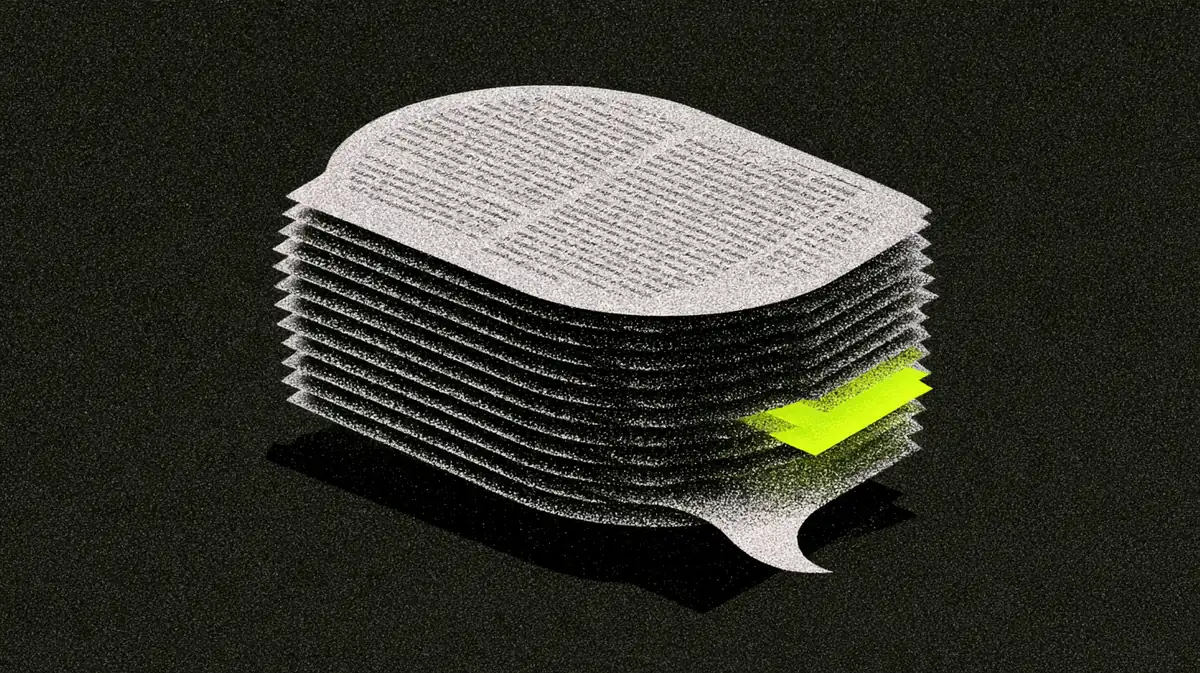
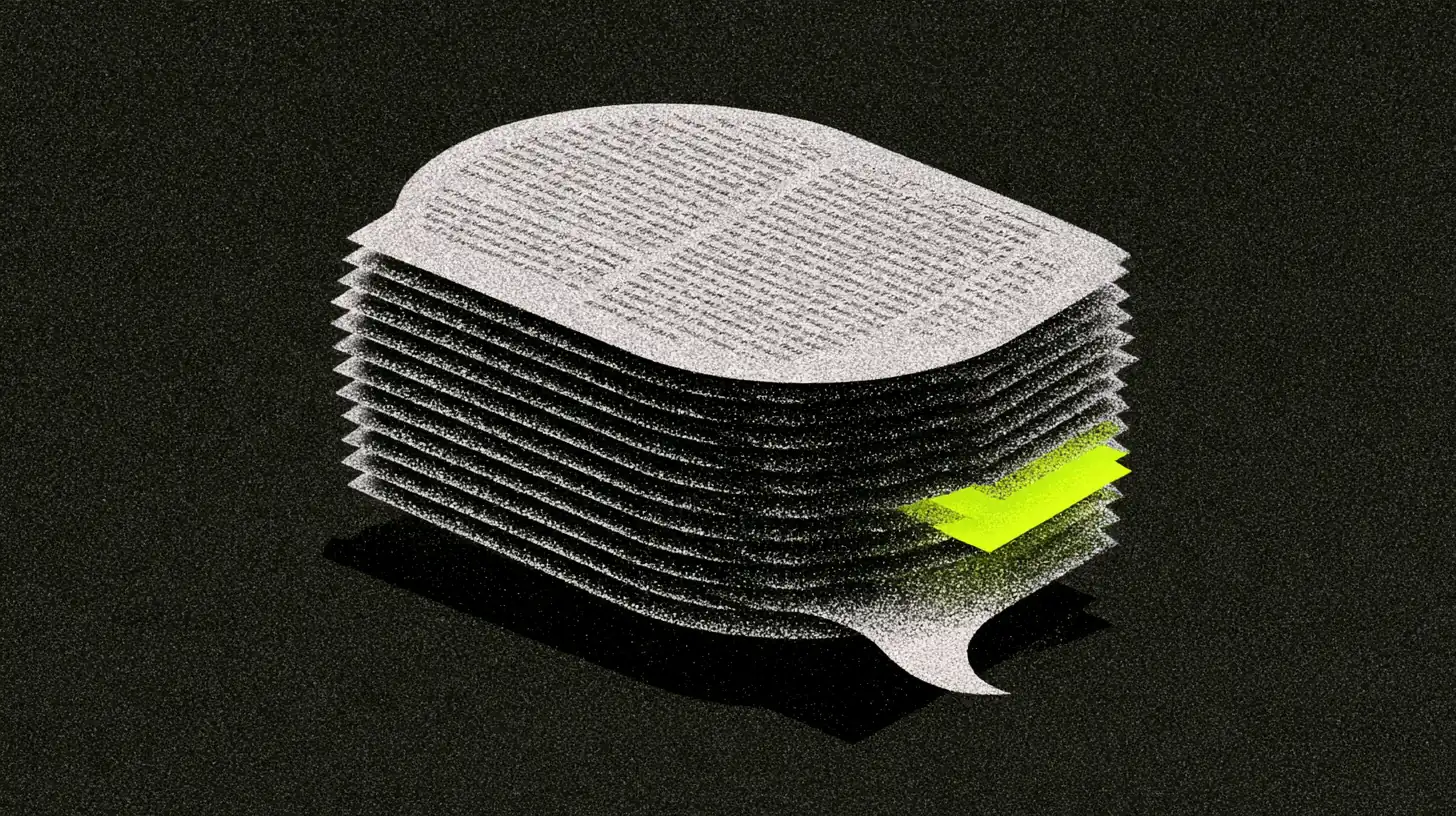
feat: full-bleed parallax illustration bands, remove founder section, fix tools mobile nav

Changed region(s): [[0.74, 0.6241, 0.7708, 0.6553], [0.6783, 0.5617, 0.7092, 0.5929], [0.5858, 0.7489, 0.6167, 0.7801]]

diff --git a/tools.html b/tools.html
@@ -7,7 +7,7 @@
 <meta name="viewport" content="width=device-width, initial-scale=1.0">
 <title>Free AI Tools for Business Teams | Alvento</title>
 <link rel="canonical" href="https://alvento.uk/tools/">
-<meta name="description" content="Free browser-based tools for teams using AI. PDF to Markdown, SOP to Checklist, Compliance Checklist, Contract Clause Extractor. Built by Alvento.">
+<meta name="description" content="Free browser-based tools for regulated teams: PDF to Markdown, SOP to Checklist, MDR device class checker, MDR technical file index, PSUR outline, UDI decoder, PSBAR accessibility statement and CPD tracker. Built by Alvento.">
 <link href="https://fonts.googleapis.com/css2?family=Instrument+Serif:ital@0;1&family=DM+Sans:ital,wght@0,400;0,500;0,600;0,700;1,400&family=JetBrains+Mono:wght@400;500&display=swap" rel="stylesheet">
 <style>
 *, *::before, *::after { margin: 0; padding: 0; box-sizing: border-box; }
@@ -108,6 +108,8 @@ nav .container {
 }
 
 .nav-links .btn-nav:hover { background: var(--accent-hover); }
+
+.nav-toggle { display: none; background: none; border: none; color: var(--text); font-size: 1.5rem; cursor: pointer; }
 
 /* ---- SECTION LABEL ---- */
 .section-label {
@@ -310,6 +312,8 @@ footer p {
 /* ---- RESPONSIVE ---- */
 @media (max-width: 768px) {
   .nav-links { display: none; }
+  .nav-links.open { display: flex; flex-direction: column; position: absolute; top: 100%; left: 0; right: 0; background: rgba(10,10,10,0.95); backdrop-filter: blur(20px); -webkit-backdrop-filter: blur(20px); padding: 24px; gap: 20px; border-bottom: 1px solid var(--border); }
+  .nav-toggle { display: block; }
   .tools-grid { grid-template-columns: 1fr; }
   .cta-section { padding: 60px 0; }
   .hero { padding-top: 120px; padding-bottom: 60px; }
@@ -320,7 +324,7 @@ footer p {
 h1, h2, h3, h4 { font-synthesis: none; }
 </style>
 <meta property="og:title" content="Free AI Tools for Business Teams | Alvento">
-<meta property="og:description" content="Free browser-based tools for teams using AI. PDF to Markdown, SOP to Checklist, Compliance Checklist, Contract Clause Extractor. Built by Alvento.">
+<meta property="og:description" content="Free browser-based tools for regulated teams: PDF to Markdown, SOP to Checklist, MDR device class checker, MDR technical file index, PSUR outline, UDI decoder, PSBAR accessibility statement and CPD tracker. Built by Alvento.">
 <meta property="og:url" content="https://alvento.uk/tools/">
 <meta property="og:type" content="website">
 <meta property="og:image" content="https://alvento.uk/og/tools.png">
@@ -328,20 +332,22 @@ h1, h2, h3, h4 { font-synthesis: none; }
 <meta property="og:image:height" content="630">
 <meta name="twitter:card" content="summary_large_image">
 <meta name="twitter:image" content="https://alvento.uk/og/tools.png">
+<link rel="stylesheet" href="/illustration-band.css">
 </head>
 <body>
 
 <!-- NAV -->
 <nav>
-  <div class="container" style="display: flex; justify-content: space-between; align-items: center;">
-    <a href="/" style="font-family: var(--font-display); font-size: 1.5rem; letter-spacing: -0.02em; color: var(--text);">alvento<span style="color: var(--accent);">.</span></a>
-    <ul style="display: flex; gap: 32px; list-style: none; align-items: center;">
-      <li><a href="/#capabilities" style="font-family: var(--font-mono); font-size: 0.75rem; text-transform: uppercase; letter-spacing: 0.08em; color: var(--muted); transition: color 0.3s;">Capabilities</a></li>
-      <li><a href="/#lab" style="font-family: var(--font-mono); font-size: 0.75rem; text-transform: uppercase; letter-spacing: 0.08em; color: var(--muted); transition: color 0.3s;">Products</a></li>
-      <li><a href="/tools" style="font-family: var(--font-mono); font-size: 0.75rem; text-transform: uppercase; letter-spacing: 0.08em; color: var(--accent); transition: color 0.3s;">Tools</a></li>
-      <li><a href="/case-studies/" style="font-family: var(--font-mono); font-size: 0.75rem; text-transform: uppercase; letter-spacing: 0.08em; color: var(--muted); transition: color 0.3s;">Case studies</a></li>
-      <li><a href="/blog/" style="font-family: var(--font-mono); font-size: 0.75rem; text-transform: uppercase; letter-spacing: 0.08em; color: var(--muted); transition: color 0.3s;">Insights</a></li>
-      <li><a href="/#contact" style="font-family: var(--font-mono); font-size: 0.75rem; text-transform: uppercase; letter-spacing: 0.08em; background: var(--accent); color: var(--bg); font-weight: 600; padding: 8px 18px; border-radius: 4px;">Discuss your project</a></li>
+  <div class="container">
+    <a href="/" class="logo">alvento<span>.</span></a>
+    <button class="nav-toggle" aria-label="Menu" aria-expanded="false" aria-controls="primary-nav" onclick="this.setAttribute('aria-expanded', document.querySelector('.nav-links').classList.toggle('open'))">&#9776;</button>
+    <ul class="nav-links" id="primary-nav">
+      <li><a href="/#capabilities">Capabilities</a></li>
+      <li><a href="/#lab">Products</a></li>
+      <li><a href="/tools">Tools</a></li>
+      <li><a href="/case-studies/">Case studies</a></li>
+      <li><a href="/blog/">Insights</a></li>
+      <li><a href="/#contact" class="btn-nav">Discuss your project</a></li>
     </ul>
   </div>
 </nav>
@@ -436,7 +442,10 @@ h1, h2, h3, h4 { font-synthesis: none; }
   </div>
 </section>
 
-<figure style="max-width:1100px;margin:2rem auto 0;padding:0 24px"><img src="/images/illustrations/tools-instruments.webp" width="1456" height="816" loading="lazy" decoding="async" alt="Illustration: drafting instruments, a ruler, set square and compass, laid on a circuit board, with one tip lit in lime green" style="display:block;width:100%;height:auto;border:1px solid #2a2a2a;border-radius:3px"></figure>
+<section class="ill-band">
+  <img class="ill-band__img" src="/images/illustrations/tools-instruments.webp" width="1456" height="816" loading="lazy" decoding="async" alt="Illustration: drafting instruments, a ruler, set square and compass, laid on a circuit board, with one tip lit in lime green">
+  <div class="ill-band__caption"><span class="ill-band__eyebrow">Free tools</span><p class="ill-band__line">Small, exact tools <em>for regulated work</em>.</p></div>
+</section>
 
 <!-- CTA SECTION -->
 <section class="cta-section">
@@ -456,5 +465,6 @@ h1, h2, h3, h4 { font-synthesis: none; }
 </footer>
 
 <script defer src="/consent-banner.js"></script>
+<script defer src="/illustration-band.js"></script>
 </body>
 </html>

diff --git a/index.html b/index.html
@@ -763,6 +763,7 @@ h1, h2, h3, h4 { font-synthesis: none; }
 </style>
 <meta property="og:image:width" content="1200">
 <meta property="og:image:height" content="630">
+<link rel="stylesheet" href="/illustration-band.css">
 </head>
 <body>
 
@@ -803,7 +804,10 @@ h1, h2, h3, h4 { font-synthesis: none; }
   </div>
 </section>
 
-<figure style="max-width:1100px;margin:2rem auto 0;padding:0 24px"><img src="/images/illustrations/home-operations.webp" width="1456" height="816" loading="lazy" decoding="async" alt="Illustration: a stack of paper forms in an inbox tray feeding a small machine on a circuit board, with one finished sheet coming out lit in lime green" style="display:block;width:100%;height:auto;border:1px solid #2a2a2a;border-radius:3px"></figure>
+<section class="ill-band">
+  <img class="ill-band__img" src="/images/illustrations/home-operations.webp" width="1456" height="816" loading="lazy" decoding="async" alt="Illustration: a stack of paper forms in an inbox tray feeding a small machine on a circuit board, with one finished sheet coming out lit in lime green">
+  <div class="ill-band__caption"><span class="ill-band__eyebrow">Operations, not demos</span><p class="ill-band__line">Paper in, finished work out, <em>a person signs it off</em>.</p></div>
+</section>
 
 <!-- PROBLEM FRAMING -->
 <section class="problem" id="problem">
@@ -956,7 +960,7 @@ h1, h2, h3, h4 { font-synthesis: none; }
 <!-- TOOLS -->
 <section class="section" id="tools" style="padding: 120px 0;">
   <div class="container">
-    <div class="section-label fade-up">06. Free tools</div>
+    <div class="section-label fade-up">05. Free tools</div>
     <h2 class="fade-up" style="font-family: var(--font-display); font-size: clamp(2rem, 4.5vw, 3.4rem); margin-bottom: 64px; letter-spacing: -0.025em; line-height: 1.08; max-width: 900px; font-weight: 400;">Built from production. <em style="font-style: italic; color: var(--accent);">Free to use.</em></h2>
     <div style="display: grid; grid-template-columns: repeat(2, 1fr);" class="fade-up">
       <!-- Tool 1: Live -->
@@ -1025,7 +1029,7 @@ h1, h2, h3, h4 { font-synthesis: none; }
 <!-- ENGAGEMENT MODELS -->
 <section class="engagement" id="engagement">
   <div class="container">
-    <div class="section-label fade-up">08. Engagement models</div>
+    <div class="section-label fade-up">06. Engagement models</div>
     <h2 class="fade-up">Working <em>together</em></h2>
     <p class="engagement-intro fade-up">Three ways to engage depending on where you are in the process. All start with understanding the problem before committing to a build.</p>
     <div class="engagement-grid">
@@ -1094,19 +1098,11 @@ h1, h2, h3, h4 { font-synthesis: none; }
 </section>
 
 <!-- CONTACT -->
-<section id="founder">
-  <div class="container">
-    <div class="section-label fade-up">09. Who's behind this</div>
-    <h2 class="fade-up">One <em>operator</em>, no outsourcing</h2>
-    <p class="fade-up" style="color:var(--muted);max-width:680px;font-size:1.05rem;line-height:1.75;">Alvento is run by one person. Every diagnostic, build, and handover is delivered personally, not passed to junior staff or outsourced. That means slower at scale, but it also means no gap between who scoped the work and who did it, and no incentive to keep a system running longer than it needs a human involved.</p>
-  </div>
-</section>
-
 <section class="contact" id="contact">
   <div class="container">
     <div class="contact-inner">
       <div class="fade-up">
-        <div class="section-label">10. Contact</div>
+        <div class="section-label">07. Contact</div>
         <h2>Discuss your project</h2>
       </div>
       <div class="contact-info fade-up">
@@ -1268,5 +1264,6 @@ document.addEventListener('DOMContentLoaded', function() {
 }
 </script>
 <script defer src="/consent-banner.js"></script>
+<script defer src="/illustration-band.js"></script>
 </body>
 </html>

diff --git a/illustration-band.css b/illustration-band.css
@@ -1,0 +1,74 @@
+/* Full-bleed parallax illustration band. Markup:
+   <section class="ill-band"><img class="ill-band__img" ...><div class="ill-band__caption">...</div></section> */
+.ill-band {
+  position: relative;
+  width: 100%;
+  max-width: none;
+  height: max(260px, min(88vh, 46vw));
+  margin: 3rem 0 0;
+  padding: 0;
+  overflow: hidden;
+  background: #0a0a0a;
+  isolation: isolate;
+}
+.ill-band__img {
+  position: absolute;
+  left: 0;
+  top: -12%;
+  width: 100%;
+  height: 124%;
+  object-fit: cover;
+  object-position: center;
+  will-change: transform;
+  z-index: -1;
+}
+/* fade the image into the page at top and bottom so there is no hard edge */
+.ill-band::before,
+.ill-band::after {
+  content: '';
+  position: absolute;
+  left: 0;
+  right: 0;
+  pointer-events: none;
+}
+.ill-band::before { top: 0; height: 18%; background: linear-gradient(#0a0a0a, rgba(10,10,10,0)); }
+.ill-band::after { bottom: 0; height: 38%; background: linear-gradient(rgba(10,10,10,0), rgba(10,10,10,0.9) 75%, #0a0a0a); }
+.ill-band__caption {
+  position: absolute;
+  left: 0;
+  right: 0;
+  bottom: clamp(1.5rem, 5vw, 4rem);
+  z-index: 1;
+  max-width: 1100px;
+  margin: 0 auto;
+  padding: 0 24px;
+  opacity: 0;
+  transform: translateY(16px);
+  transition: opacity 0.8s ease, transform 0.8s ease;
+}
+.ill-band.is-visible .ill-band__caption { opacity: 1; transform: none; }
+.ill-band__eyebrow {
+  display: block;
+  font-family: 'JetBrains Mono', monospace;
+  font-size: 0.72rem;
+  letter-spacing: 0.12em;
+  text-transform: uppercase;
+  color: #c4f042;
+  margin-bottom: 0.75rem;
+}
+.ill-band__line {
+  font-family: 'Instrument Serif', Georgia, serif;
+  font-weight: 400;
+  font-synthesis: none;
+  font-size: clamp(1.6rem, 4.2vw, 3.4rem);
+  line-height: 1.08;
+  letter-spacing: -0.02em;
+  color: #e8e8e8;
+  max-width: 820px;
+  margin: 0;
+}
+.ill-band__line em { font-style: italic; color: #c4f042; }
+@media (prefers-reduced-motion: reduce) {
+  .ill-band__img { transform: none !important; }
+  .ill-band__caption { opacity: 1; transform: none; transition: none; }
+}

diff --git a/website-audit.html b/website-audit.html
@@ -120,6 +120,7 @@ footer p{font-family:var(--font-mono);font-size:0.7rem;color:var(--text-dim);let
 <meta property="og:image:height" content="630">
 <meta name="twitter:card" content="summary_large_image">
 <meta name="twitter:image" content="https://alvento.uk/og/website-audit.png">
+<link rel="stylesheet" href="/illustration-band.css">
 </head>
 <body>
 
@@ -147,7 +148,10 @@ footer p{font-family:var(--font-mono);font-size:0.7rem;color:var(--text-dim);let
   </div>
 </div>
 
-<figure style="max-width:900px;margin:2rem auto 0;padding:0 24px"><img src="/images/illustrations/website-audit.webp" width="1200" height="673" loading="lazy" decoding="async" alt="Illustration: the columned front of an institutional building seen through a magnifying loupe with a measurement grid, one window lit in lime green" style="display:block;width:100%;height:auto;border:1px solid #2a2a2a;border-radius:3px"></figure>
+<section class="ill-band">
+  <img class="ill-band__img" src="/images/illustrations/website-audit.webp" width="1456" height="816" loading="lazy" decoding="async" alt="Illustration: the columned front of an institutional building seen through a magnifying loupe with a measurement grid, one window lit in lime green">
+  <div class="ill-band__caption"><span class="ill-band__eyebrow">Free audit</span><p class="ill-band__line">Your site, seen the way <em>a regulator, a member and a screen reader</em> see it.</p></div>
+</section>
 
 <section id="what">
   <span class="section-label">01. What we audit</span>
@@ -295,5 +299,6 @@ document.querySelectorAll('.nav-links a').forEach(function(link) {
 </script>
 
 <script defer src="/consent-banner.js"></script>
+<script defer src="/illustration-band.js"></script>
 </body>
 </html>

diff --git a/illustration-band.js b/illustration-band.js
@@ -1,0 +1,44 @@
+// Parallax for .ill-band images: the image drifts slower than the page while its band is on screen.
+(function () {
+  var bands = [].slice.call(document.querySelectorAll('.ill-band'));
+  if (!bands.length) return;
+  var reduce = window.matchMedia && window.matchMedia('(prefers-reduced-motion: reduce)').matches;
+  var active = new Set();
+  var ticking = false;
+
+  function update() {
+    ticking = false;
+    if (reduce) return;
+    var vh = window.innerHeight;
+    active.forEach(function (band) {
+      var r = band.getBoundingClientRect();
+      // 0 when the band enters at the bottom, 1 when it leaves at the top
+      var p = Math.min(1, Math.max(0, (vh - r.top) / (vh + r.height)));
+      // image is 24% taller than the band, so it can travel 12% each way
+      band._img.style.transform = 'translate3d(0,' + ((0.5 - p) * 0.24 * r.height).toFixed(1) + 'px,0)';
+    });
+  }
+  function request() {
+    if (!ticking) { ticking = true; window.requestAnimationFrame(update); }
+  }
+
+  var io = new IntersectionObserver(function (entries) {
+    entries.forEach(function (e) {
+      if (e.isIntersecting) {
+        e.target.classList.add('is-visible');
+        active.add(e.target);
+      } else {
+        active.delete(e.target);
+      }
+    });
+    request();
+  }, { rootMargin: '10% 0px' });
+
+  bands.forEach(function (band) {
+    band._img = band.querySelector('.ill-band__img');
+    io.observe(band);
+  });
+  if (reduce) return;
+  window.addEventListener('scroll', request, { passive: true });
+  window.addEventListener('resize', request);
+})();

diff --git a/aeo.html b/aeo.html
@@ -160,6 +160,7 @@ footer a:hover{color:var(--lime)}
 </style>
 <meta property="og:image:width" content="1200">
 <meta property="og:image:height" content="630">
+<link rel="stylesheet" href="/illustration-band.css">
 </head>
 <body>
 
@@ -189,7 +190,10 @@ footer a:hover{color:var(--lime)}
   </div>
 </div>
 
-<figure style="max-width:900px;margin:2rem auto 0;padding:0 24px"><img src="/images/illustrations/aeo-citations.webp" width="1200" height="673" loading="lazy" decoding="async" alt="Illustration: a speech bubble built from stacked index cards, with one card near the front highlighted in lime green as the cited source" style="display:block;width:100%;height:auto;border:1px solid #2a2a2a;border-radius:3px"></figure>
+<section class="ill-band">
+  <img class="ill-band__img" src="/images/illustrations/aeo-citations.webp" width="1456" height="816" loading="lazy" decoding="async" alt="Illustration: a speech bubble built from stacked index cards, with one card near the front highlighted in lime green as the cited source">
+  <div class="ill-band__caption"><span class="ill-band__eyebrow">Answer engines</span><p class="ill-band__line">When the answer is quoted, <em>the source should be you</em>.</p></div>
+</section>
 
 <!-- CONTEXT BRIDGE -->
 <div style="max-width:700px;margin:0 auto;padding:2rem 2rem 0;text-align:center">
@@ -546,5 +550,6 @@ footer a:hover{color:var(--lime)}
 }
 </script>
 <script defer src="/consent-banner.js"></script>
+<script defer src="/illustration-band.js"></script>
 </body>
 </html>

diff --git a/clinical-registries/index.html b/clinical-registries/index.html
@@ -160,6 +160,7 @@ footer a:hover{color:var(--lime)}
 </style>
 <meta property="og:image:width" content="1200">
 <meta property="og:image:height" content="630">
+<link rel="stylesheet" href="/illustration-band.css">
 </head>
 
 <body>
@@ -191,7 +192,10 @@ footer a:hover{color:var(--lime)}
   </div>
 </div>
 
-<figure style="max-width:900px;margin:2rem auto 0;padding:0 24px"><img src="/images/illustrations/clinical-registries.webp" width="1456" height="816" loading="lazy" decoding="async" alt="Illustration: a tall archive cabinet of index-card drawers on a circuit board, with one drawer open and a single card highlighted in lime green for review" style="display:block;width:100%;height:auto;border:1px solid #2a2a2a;border-radius:3px"></figure>
+<section class="ill-band">
+  <img class="ill-band__img" src="/images/illustrations/clinical-registries.webp" width="1456" height="816" loading="lazy" decoding="async" alt="Illustration: a tall archive cabinet of index-card drawers on a circuit board, with one drawer open and a single card highlighted in lime green for review">
+  <div class="ill-band__caption"><span class="ill-band__eyebrow">Submission checks</span><p class="ill-band__line">Flag the record <em>while the unit can still fix it</em>.</p></div>
+</section>
 
 <!-- PROBLEM -->
 <section id="problem">
@@ -383,5 +387,6 @@ footer a:hover{color:var(--lime)}
 }
 </script>
 <script defer src="/consent-banner.js"></script>
+<script defer src="/illustration-band.js"></script>
 </body>
 </html>
